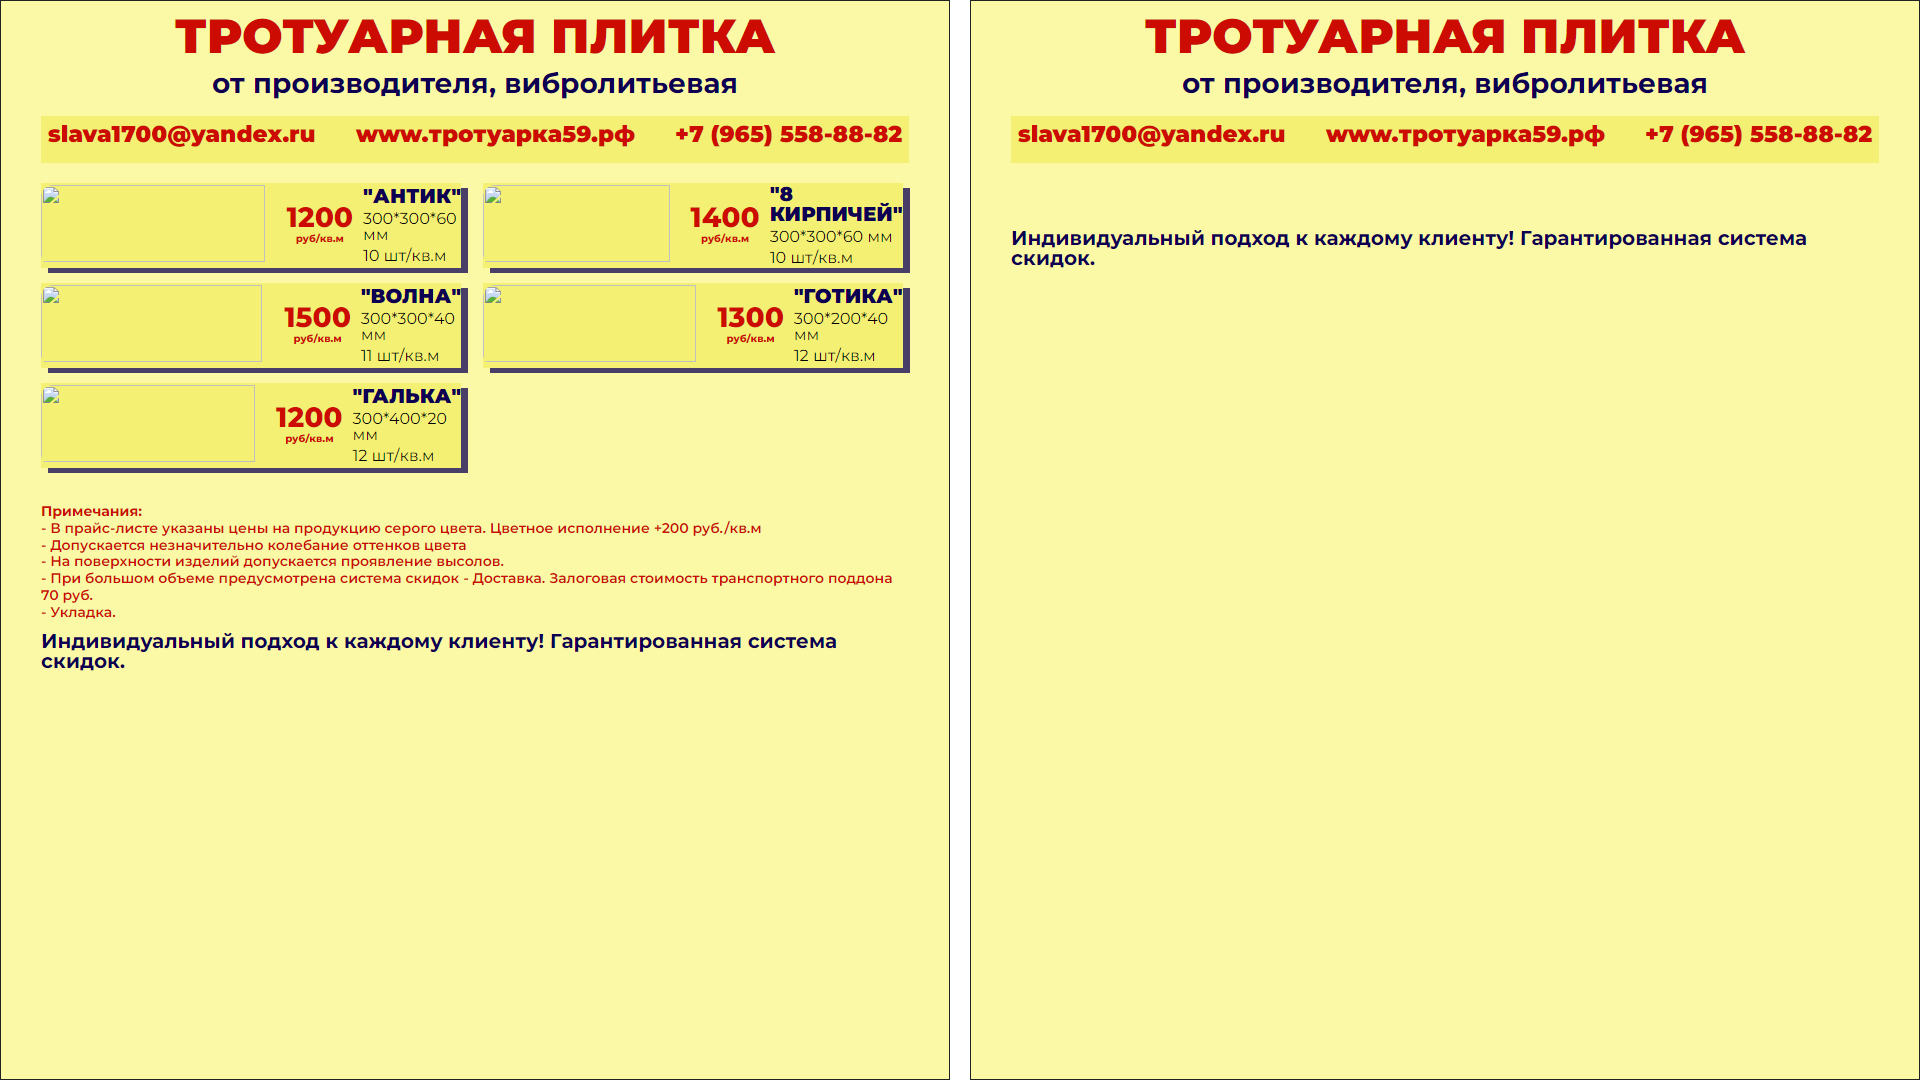
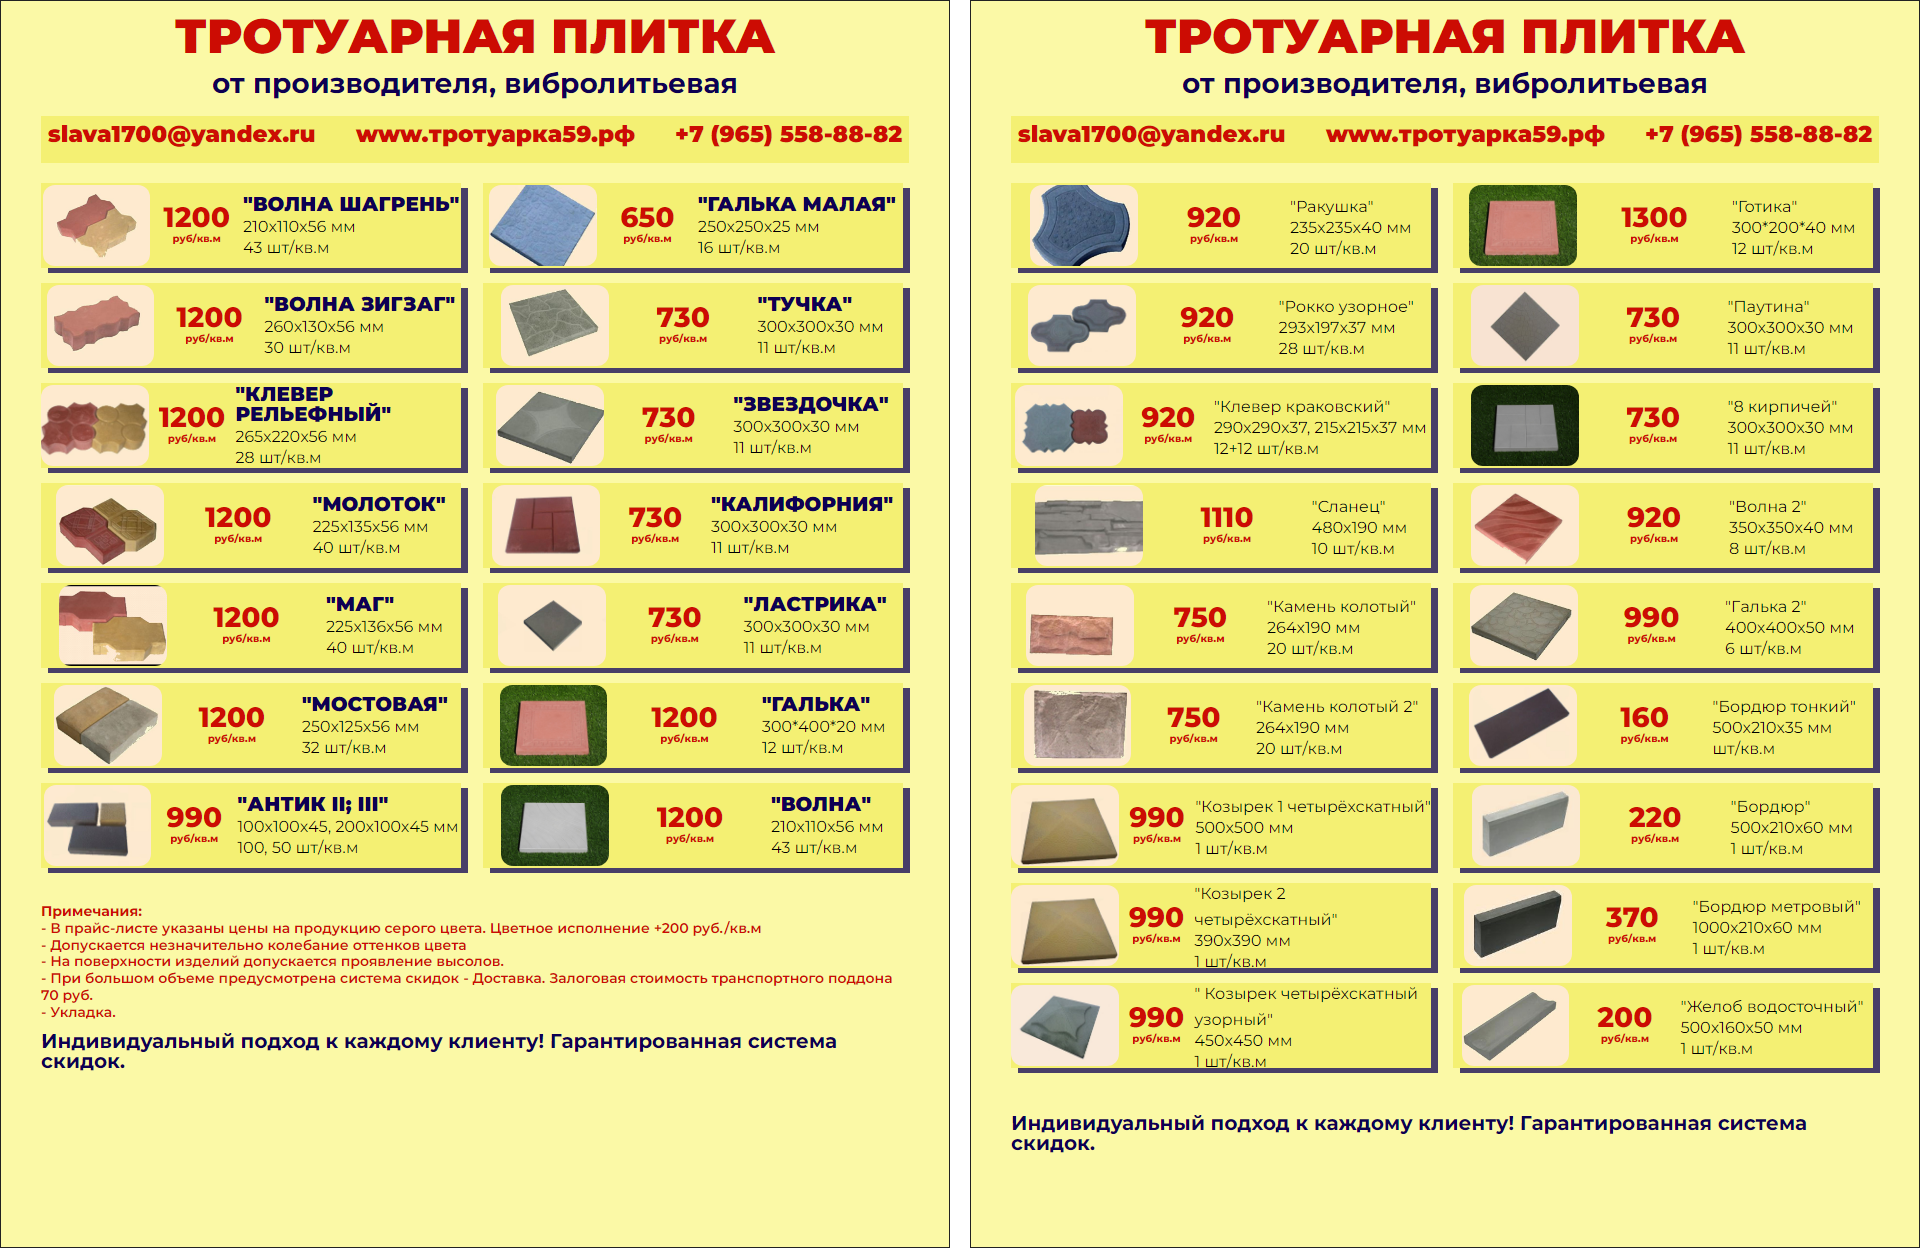
sssss

diff --git a/src/app/api/admin/addNewProduct/route.ts b/src/app/api/admin/addNewProduct/route.ts
@@ -5,33 +5,36 @@ import { NextResponse } from 'next/server'
 export async function POST(request: Request) {
 	const data = await request.formData()
 	const res: string | null = data.get('data') as unknown as string
+	const dels: string | null = data.get('delete') as unknown as string
 	const newProduct = JSON.parse(res)
+	const delsProduct = JSON.parse(dels)
 
 	const AllProductsJSON = fs.readFileSync('public/data/products.json', 'utf-8')
 
 	const slug = require('slug')
 	newProduct.slug = slug(newProduct.name)
 
-	// if (delItems === 'true') {
-	newProduct.images.originals.forEach((orig: string[], i: number) => {
-		const oldPath = orig[0].substring(1)
-		const newPath =
-			orig[0].split('/').slice(0, -1).join('/').substring(1) + `/${++i}.jpg`
-		if (newPath !== oldPath) {
-			fs.renameSync(oldPath, newPath)
-			orig[0] = '/' + newPath
-		}
-	})
+	if (delsProduct.length > 0) {
+		newProduct.images.originals.forEach((orig: string[], i: number) => {
+			const oldPath = orig[0].substring(1)
+			const newPath =
+				orig[0].split('/').slice(0, -1).join('/').substring(1) + `/${++i}.jpg`
+			if (newPath !== oldPath) {
+				fs.renameSync(oldPath, newPath)
+				orig[0] = '/' + newPath
+			}
+		})
 
-	newProduct.images.previews.forEach((prev: string[], i: number) => {
-		const oldPath = prev[0].substring(1)
-		const newPath =
-			prev[0].split('/').slice(0, -1).join('/').substring(1) + `/${++i}.jpg`
-		if (newPath !== oldPath) {
-			fs.renameSync(oldPath, newPath)
-			prev[0] = '/' + newPath
-		}
-	})
+		newProduct.images.previews.forEach((prev: string[], i: number) => {
+			const oldPath = prev[0].substring(1)
+			const newPath =
+				prev[0].split('/').slice(0, -1).join('/').substring(1) + `/${++i}.jpg`
+			if (newPath !== oldPath) {
+				fs.renameSync(oldPath, newPath)
+				prev[0] = '/' + newPath
+			}
+		})
+	}
 	// }
 	// const newImages = [newOrigs, newPrevs]
 	// newProduct.images = newImages

diff --git a/src/app/api/admin/editProduct/route.ts b/src/app/api/admin/editProduct/route.ts
@@ -6,31 +6,33 @@ import { productItemI } from '../saveOrder/route'
 export async function POST(request: Request) {
 	const data = await request.formData()
 	const res: string | null = data.get('data') as unknown as string
+	const dels: string | null = data.get('delete') as unknown as string
 	const newProduct: productItemI = JSON.parse(res)
+	const delsProduct = JSON.parse(dels)
 
 	const slug = require('slug')
 	newProduct.slug = slug(newProduct.name)
+	if (delsProduct.length > 0) {
+		newProduct.images.originals.forEach((orig: string[], i: number) => {
+			const oldPath = orig[0].substring(1)
+			const newPath =
+				orig[0].split('/').slice(0, -1).join('/').substring(1) + `/${++i}.jpg`
+			if (newPath !== oldPath) {
+				fs.renameSync(oldPath, newPath)
+				orig[0] = '/' + newPath
+			}
+		})
 
-	newProduct.images.originals.forEach((orig: string[], i: number) => {
-		const oldPath = orig[0].substring(1)
-		const newPath =
-			orig[0].split('/').slice(0, -1).join('/').substring(1) + `/${++i}.jpg`
-		if (newPath !== oldPath) {
-			fs.renameSync(oldPath, newPath)
-			orig[0] = '/' + newPath
-		}
-	})
-
-	newProduct.images.previews.forEach((prev: string[], i: number) => {
-		const oldPath = prev[0].substring(1)
-		const newPath =
-			prev[0].split('/').slice(0, -1).join('/').substring(1) + `/${++i}.jpg`
-		if (newPath !== oldPath) {
-			fs.renameSync(oldPath, newPath)
-			prev[0] = '/' + newPath
-		}
-	})
-
+		newProduct.images.previews.forEach((prev: string[], i: number) => {
+			const oldPath = prev[0].substring(1)
+			const newPath =
+				prev[0].split('/').slice(0, -1).join('/').substring(1) + `/${++i}.jpg`
+			if (newPath !== oldPath) {
+				fs.renameSync(oldPath, newPath)
+				prev[0] = '/' + newPath
+			}
+		})
+	}
 	const AllProductsJSON = fs.readFileSync('public/data/products.json', 'utf-8')
 	const products: productItemI[] = JSON.parse(AllProductsJSON)
 

diff --git a/src/app/api/admin/getPriceList/route.ts b/src/app/api/admin/getPriceList/route.ts
@@ -37,7 +37,7 @@ export async function GET(request: Request) {
 				руб/кв.м
 			</p>
 			<div class="product__info">
-				<p class="product__name">"${product.name}"</p>
+				<p class=" small">"${product.name}"</p>
 				<p class="product__size">${product.size} мм</p>
 				<p class="product__pallet">${product.pallet} шт/кв.м</p>
 			</div>
@@ -45,23 +45,7 @@ export async function GET(request: Request) {
 			`
 		}
 	}
-	// 	products.forEach((product, i) => {
-	// 		htmlProducts1 += `
-	// 	 <div class="product">
-	// 	 <img src="${process.env.domainUrl}/${product.images.originals[0]}" alt="" class="product__img" />
-	// 	 <p class="product__price">
-	// 		 <span class="number">${product.price}</span>
-	// 		 руб/кв.м
-	// 	 </p>
-	// 	 <div class="product__info">
-	// 		 <p class="product__name">"${product.name}"</p>
-	// 		 <p class="product__size">${product.size} мм</p>
-	// 		 <p class="product__pallet">${product.pallet} шт/кв.м</p>
-	// 	 </div>
-	//  </div>
 
-	// 	 `
-	// 	})
 	console.log(htmlProducts1)
 
 	const html = `
@@ -103,6 +87,9 @@ export async function GET(request: Request) {
 				line-height: 1.6;
 				font-weight: 400;
 				background-color: #fff;
+			}
+			.small {
+				font-size:16px !important;
 			}
 
 			.main {
@@ -298,7 +285,7 @@ export async function GET(request: Request) {
 	// 	omitBackground: true,
 	// })
 	// await page.goto(`file://public/pricelist.html`)
-	await page.setViewport({ width: 1920, height: 1080 })
+	await page.setViewport({ width: 1920, height: 39 * products.length })
 
 	await page.screenshot({ path: 'upload/pricelist/price.png' })
 

diff --git a/src/admin-scenes/product/addModal.tsx b/src/admin-scenes/product/addModal.tsx
@@ -199,6 +199,8 @@ const AddingPalettesModal = ({
 		}
 
 		let formData = new FormData()
+		const deleteds = deletedImages as unknown as string | Blob
+		formData.append('delete', JSON.stringify(deleteds))
 		formData.append('data', JSON.stringify(data))
 
 		await axios

diff --git a/src/admin-scenes/product/editModal.tsx b/src/admin-scenes/product/editModal.tsx
@@ -242,6 +242,8 @@ const EditPalettesModal = ({
 		}
 
 		let formData = new FormData()
+		const deleteds = deletedImages as unknown as string | Blob
+		formData.append('delete', JSON.stringify(deleteds))
 		formData.append('data', JSON.stringify(data))
 
 		await axios
